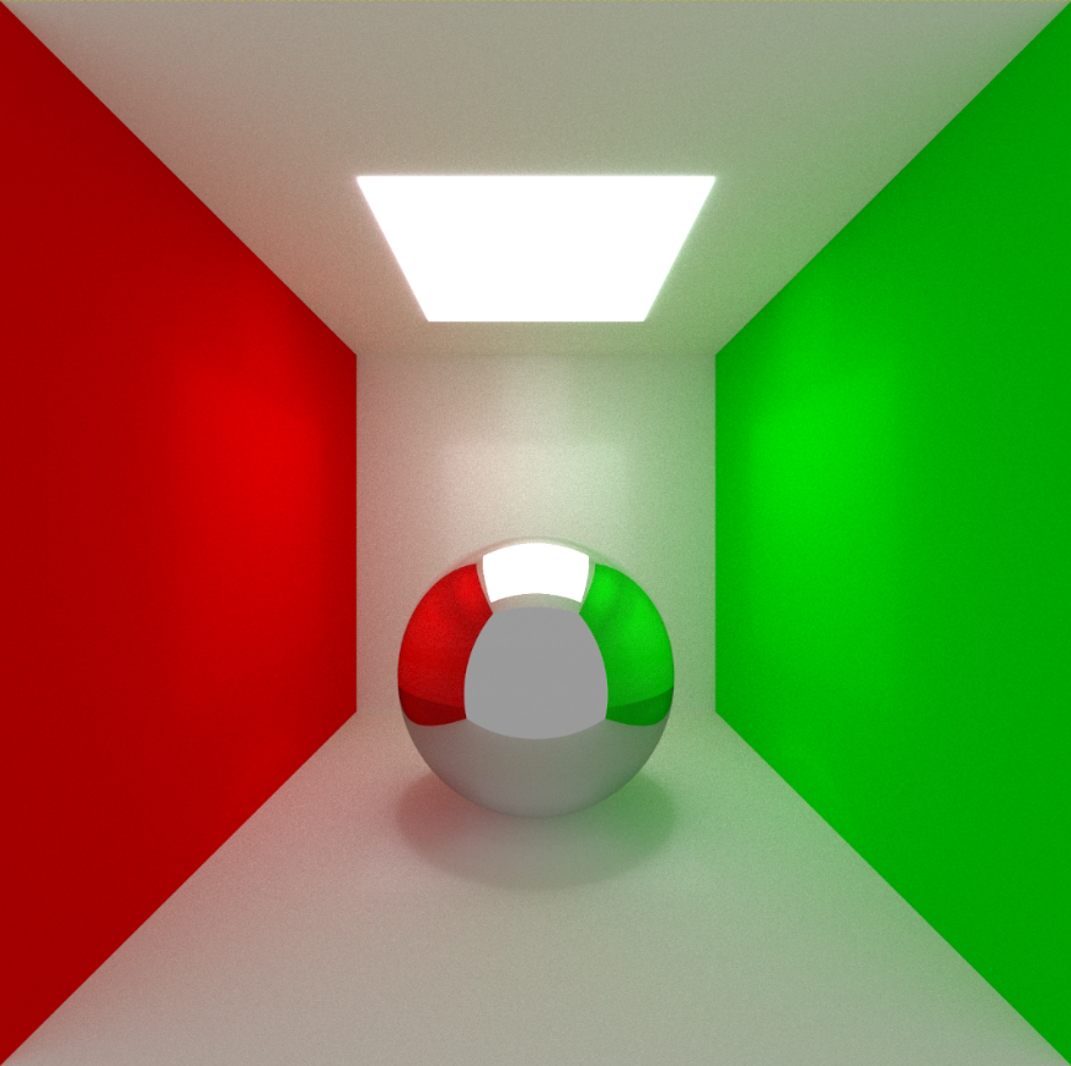
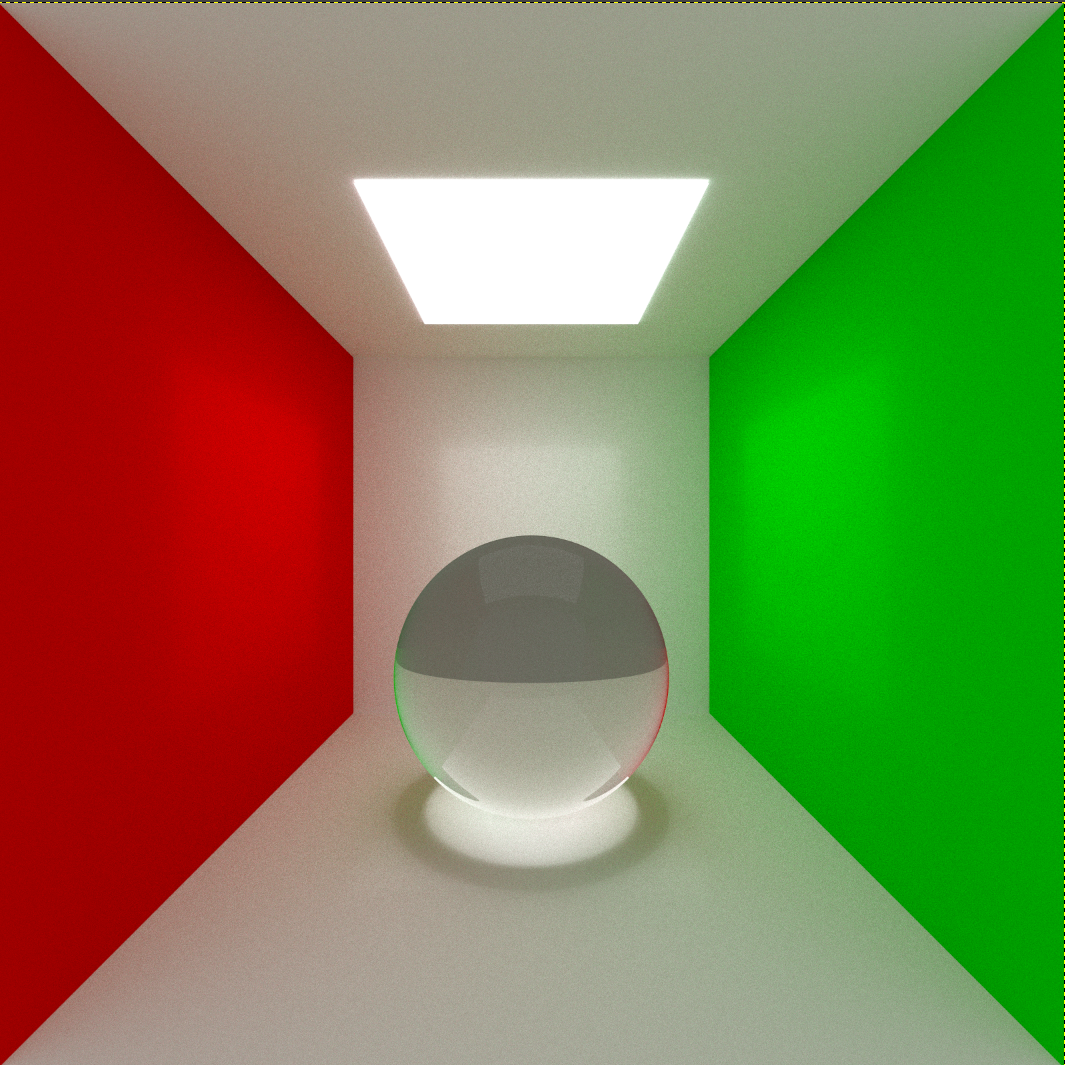
screenshots

diff --git a/src/main.cpp b/src/main.cpp
@@ -28,8 +28,8 @@ int main() {
   
     start = std::chrono::system_clock::now();
 
-    int nx = 400;
-    int ny = 400;
+    int nx = 1600;
+    int ny = 1600;
     std::ofstream output("../data/image.ppm");
 
     Scene scene;
@@ -45,7 +45,7 @@ int main() {
     mirror.c = white;
     glass.c = Color(.9 + .1 * (rand() % 1), .9 + .1 * (rand() % 1), .9 + .1 * (rand() % 1));
     mirror.n_i = .5;
-    glass.n_i = 1.8;
+    glass.n_i = 1.3;
 
     plane.setMaterial(planeMat);
 
@@ -109,8 +109,8 @@ int main() {
     Camera* cam_pointer = &cam;
     scene.cameras.push_back(cam_pointer);
     RayTracer rayTracer;
-    rayTracer.maxDepth = 4;
-    rayTracer.sampleRate = 64;
+    rayTracer.maxDepth = 10;
+    rayTracer.sampleRate = 256;
 
     Image image;
     //image = dynamic_cast<PathTracer*>(&rayTracer)->takePicture(scene, 0);
